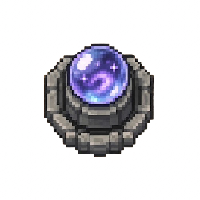
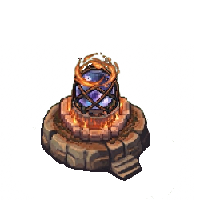
more textures

diff --git a/core/src/main/java/io/github/some_example_name/Renderer.java b/core/src/main/java/io/github/some_example_name/Renderer.java
@@ -19,6 +19,8 @@ public class Renderer {
     Texture barricadetex = new Texture("Tiles/barricade.png");
 
     Texture spire1 = new Texture("Towers/spire1.png");
+    Texture spire2 = new Texture("Towers/spireII1.png");
+    Texture spire3 = new Texture("Towers/spireIV1.png");
     Texture turret1 = new Texture("Towers/turret1.png");
     Texture turret2 = new Texture("Towers/turretIII1.png");
     Texture turret3 = new Texture("Towers/turretIV1.png");
@@ -406,19 +408,19 @@ public class Renderer {
                                 scale = 3f;
                                 break;
                             case SpireII:
-                                texture = spire1;
-                                scale = 3f;
+                                texture = spire2;
+                                scale = 4f;
                                 break;
                             case SpireIII:
-                                texture = spire1;
-                                scale = 3f;
+                                texture = spire2;
+                                scale = 4f;
                                 break;
                             case SpireIV:
-                                texture = spire1;
-                                scale = 3f;
+                                texture = spire3;
+                                scale = 4f;
                                 break;
                             case SpireV:
-                                texture = spire1;
+                                texture = spire3;
                                 scale = 3f;
                                 break;
                             default:
